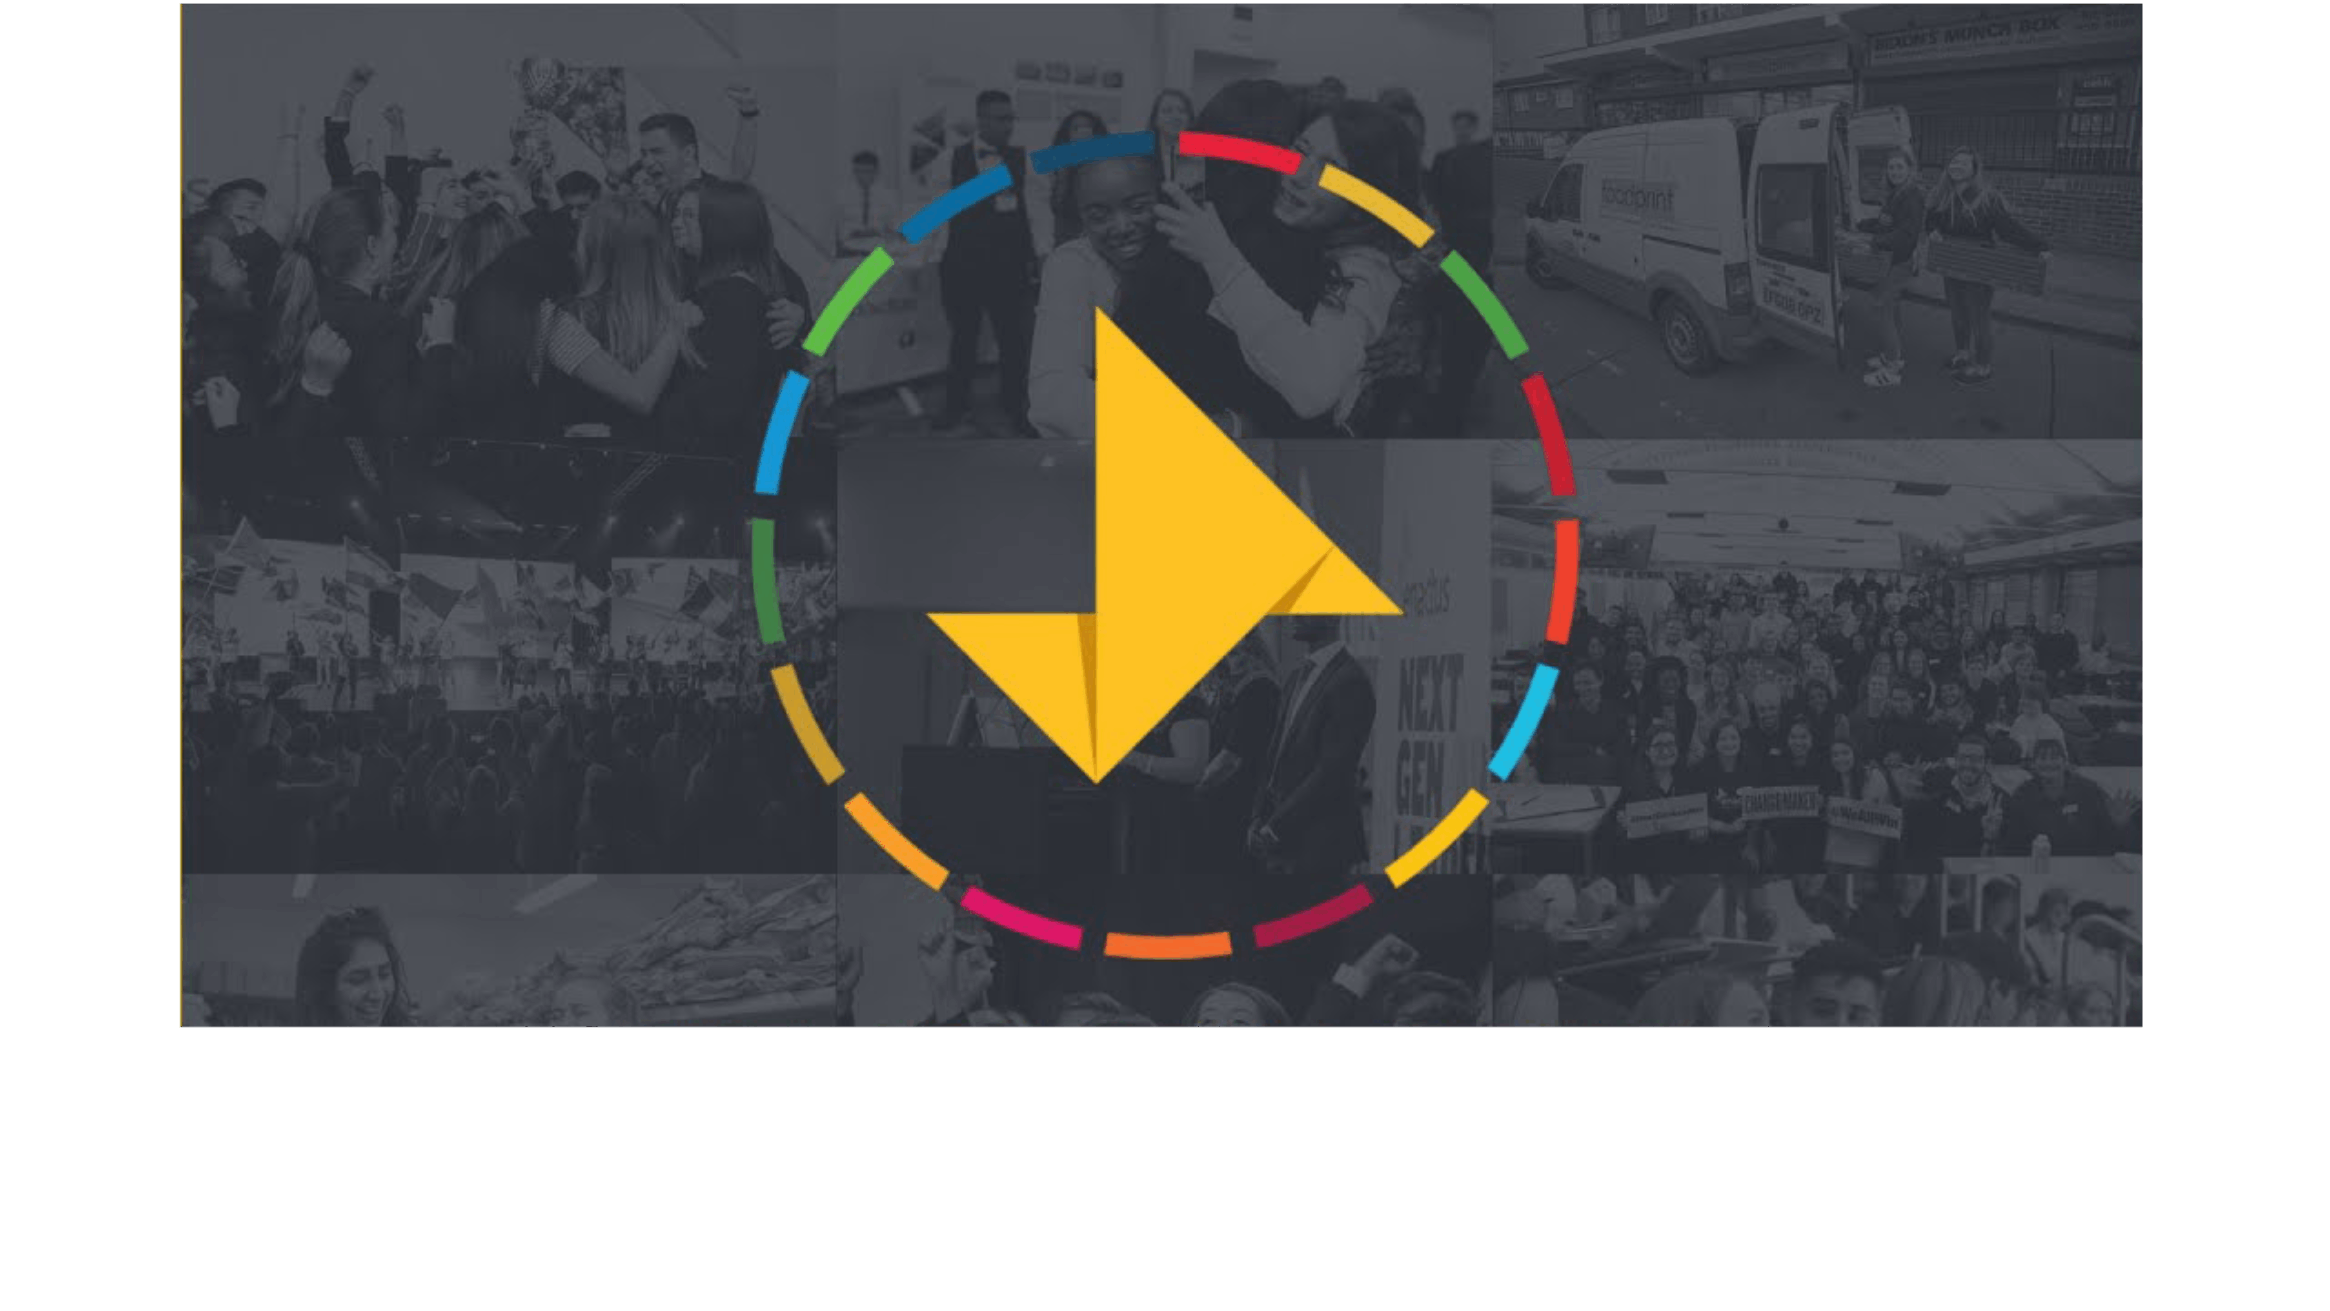
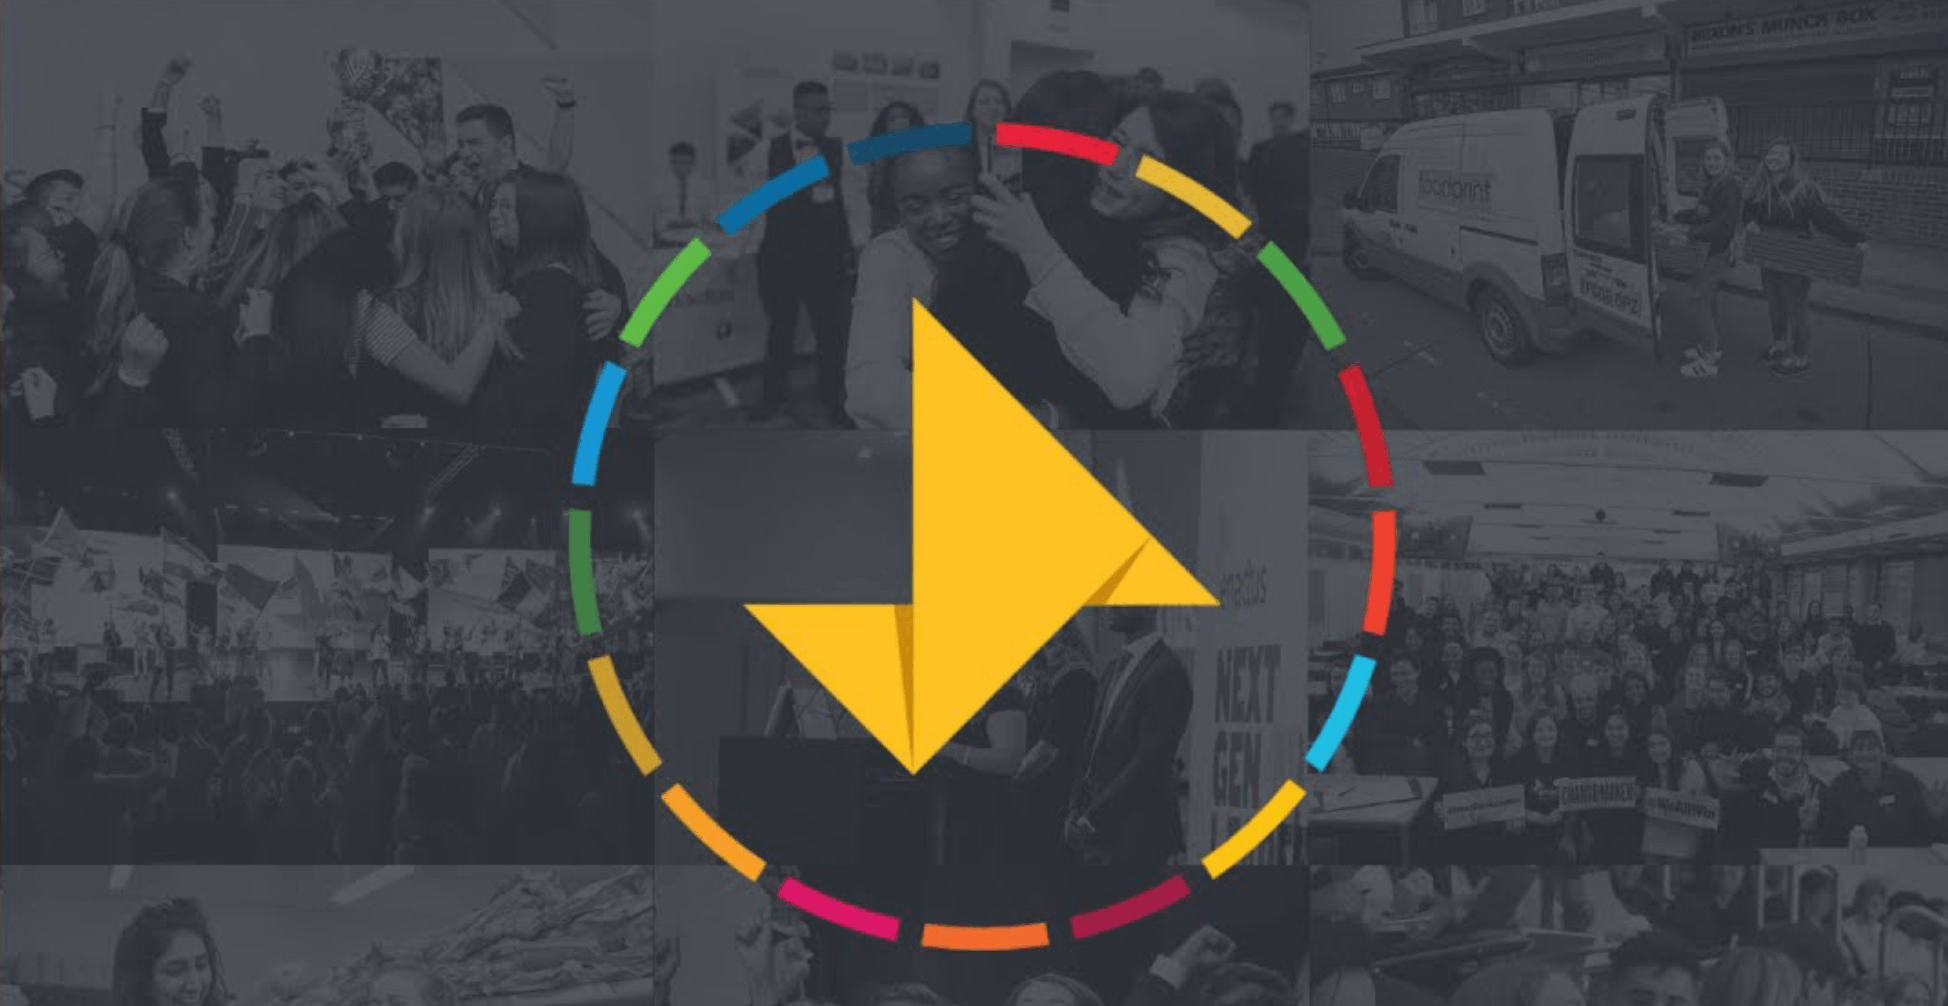
test

diff --git a/src/pages/index.tsx b/src/pages/index.tsx
@@ -6,7 +6,7 @@ import bgimg from "../../public/imgs/we are enactus.png"
 
 const Home: NextPage = () => {
   return (
-    <div >
+    <div>
       <Head>
         <title>Enactus SMIT</title>
         <meta name="description" content="Generated by create next app" />
@@ -14,11 +14,13 @@ const Home: NextPage = () => {
       </Head>
 
       <Header />
-      <Image className="-z-10"
-            src={bgimg}
-            layout = "fill"
-            alt = "bg"
-      />
+      <div className="w-screen">
+        <Image className="-z-10"
+              src={bgimg}
+             // layout = ""
+              alt = "bg"
+        />
+      </div>
     </div>
   )
 }

diff --git a/src/Components/Header.tsx b/src/Components/Header.tsx
@@ -5,7 +5,7 @@ import logo from "../../public/imgs/enactus.png"
 const Header = () => {
   return (
     <header className=" bg-slate-600">
-      <div className="flex items-center py-2">
+      <div className="flex items-center py-6">
         <Image
           className="cursor-pointer object-contain"
           src={logo}
